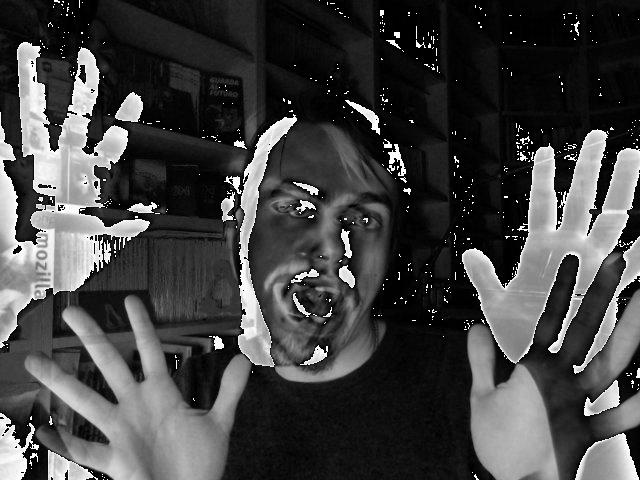
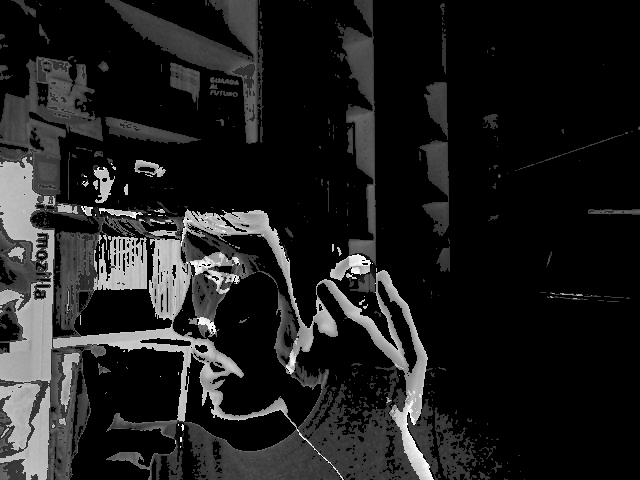
finalmente i risultati sono interessanti

diff --git a/main.py b/main.py
@@ -2,7 +2,6 @@
 from core import Sporcamento as core
 from core import str_to_bool
 from PIL import Image
-import numpy as np
 import time
 start_time = time.time()
 #Lettura impostazioni
@@ -19,8 +18,6 @@ else:
     options['imagePath'] += 'sporc/'
 
 ##Converto in scala di grigi
-#img_riferimento_grigio_matrice = core.img_in_matrice(img_riferimento)
-#pixel_riferimento_totali, intensita_riferimento = core.conta_bin_e_range(img_riferimento_grigio_matrice)
 
 #tanto le dimensioni sono le stesse per tutte
 size_x = int(options['imageWidth'])
@@ -40,24 +37,29 @@ for folder in range(1,(int(options['sporcNumber'])+1)):
         if str_to_bool(options['onlyWebcam']) == True:
             print(' Attesa per il nuovo scatto')
             #leggo l'immagine
-            img_grigio_matrice[folder,count] = core.img_in_matrice(core.scatta_foto(int(count), options, webcam), options)
+            img_grigio_matrice[folder,count] = core.img_in_matrice(core.scatta_foto(int(count), options, webcam), options)[0]
         else:
             #leggo l'immagine
             img_diff = Image.open(options['imagePath'] + str(folder) + '/' + str(count) + prefix + '.jpg', 'r')
             #converto in scala di grigi
-            img_grigio_matrice[folder,count] = core.img_in_matrice(img_diff,options)
+            img_grigio_matrice[folder,count] = core.img_in_matrice(img_diff,options)[0]
+        #core.conta_bin_e_range(img_grigio_matrice[folder,count])
 
 #elaboro Immagini
-for count in range(2,(int(options['imageNumber']))):
+if str_to_bool(options['onlyWebcam']) == True:
+    i = 2
+else:
+    i = 1
+for count in range(i,(int(options['imageNumber']))):
     print('Analisi immagine ' + str(count))
     #faccio la differenza e salvo l'immagine
     if str_to_bool(options['onlyWebcam']) != True:
         img_differenza = core.crea_differenze(img_grigio_matrice[1,count], img_grigio_matrice[2,count])
-        img_differenza = img_differenza[0]
+        img_differenza = img_differenza
         core.salva_immagine_da_array(img_differenza, output_folder + str(count) + prefix + '_differenza.jpg', options)
     else:
         img_differenza = core.crea_differenze(img_grigio_matrice[1,1], img_grigio_matrice[1,count])
-        img_differenza = img_differenza[0]
+        img_differenza = img_differenza
         core.salva_immagine_da_array(img_differenza, options['imagePath'] + str(count) + prefix + '_differenza.jpg', options)
 #    numero += "Numero Sporcamento Differenza " + str(count) + ": " + core.calcola_intensita(intensita) + "\n"
 #    indice += "Indice Sporcamento " + str(count) + ": " + core.indice_sporcamento(iniettore_riferimento_pulito, core.calcola_intensita(intensita)) + "\n"

diff --git a/core.py b/core.py
@@ -1,5 +1,5 @@
 import numpy as np
-from PIL import Image
+from PIL import Image, ImageChops
 import pygame.camera, pygame.image
 from time import sleep
 
@@ -24,27 +24,21 @@ class Sporcamento():
         size_y = int(options['imageHeight'])
         img = img.convert('L')
         #prendiamo i dati puri dell'immagine e convertiamola in array in base integer ad 8bit
-        img_matrice = np.asarray(img.getdata(), np.uint8).reshape(img.size[1], img.size[0])
+#       img_matrice = np.asarray(img.getdata(), np.uint8).reshape(size_x, size_y)
+        img_matrice = img
         #cerco di eliminare il rumore
         intensita = Sporcamento.intensita_reset()
-        print('  Pulizia immagine')
-#        for x in range(size_x):
-#            for y in range(size_y):
-#                if img_matrice[x,y] >= int(options['rumour']):
-#                    img_matrice[x,y]=0
-#                #sommo le intensita
-#                intensita[img_matrice[x,y]]+=1
         return img_matrice, intensita
 
     def crea_differenze(colori, grigi):
         print('  Effettuata differenza tra colori e scala di grigi')
-        return np.subtract(colori, grigi)
+        return ImageChops.difference(colori,grigi)
 
     def salva_immagine_da_array(img, nome, options):
         size_x = int(options['imageWidth'])
         size_y = int(options['imageHeight'])
         #Salviamo l'immagine convertendo da array a stringa
-        Image.frombytes('L', (size_x,size_y), img.tostring()).save(nome)
+        Image.frombytes('L', (size_x,size_y), img.tobytes()).save(nome)
         print('  Immagine salvata in ' + nome)
 
     #imhist di matlab
